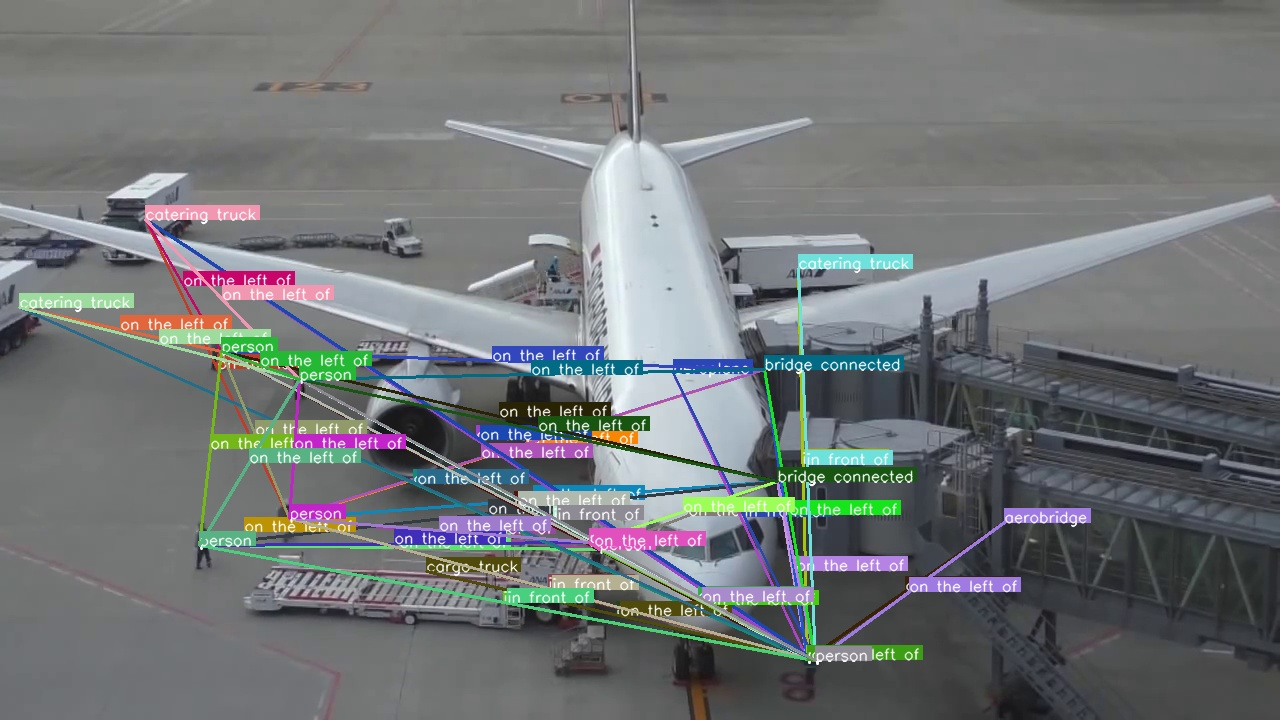
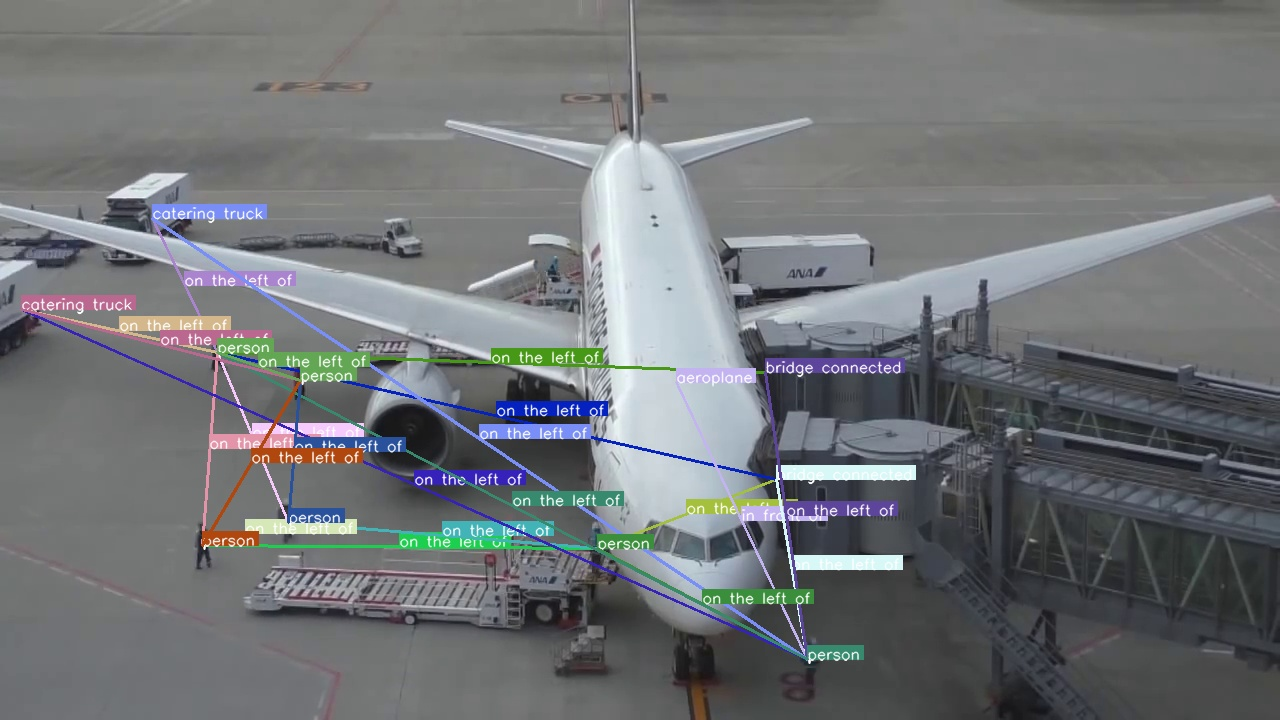
updated for ibs

diff --git a/datasets/custom_vrd.py b/datasets/custom_vrd.py
@@ -91,6 +91,8 @@ class VRDDataset(Dataset):
 			gt_sbj_bbox, gt_obj_bbox = ast.literal_eval(spo[1]), ast.literal_eval(spo[4])
 			predicate = spo[2]
 
+			print(gt_sbj_label, predicate, gt_obj_label )
+
 			# prepare bboxes for subject and object
 			boxes.append([gt_sbj_bbox, gt_obj_bbox])
 

diff --git a/config.py b/config.py
@@ -21,7 +21,7 @@ __C = AttrDict()
 #   from fast_rcnn_config import cfg
 cfg = __C
 
-__C.DEVICE = 'cuda:1'
+__C.DEVICE = 'cpu'
 
 #
 # Training options
@@ -175,7 +175,7 @@ __C.RPN.POSITIVE_FRACTION = 0.5
 #
 
 __C.TEST = AttrDict()
-__C.TEST.THRESHOLD = 0.1
+__C.TEST.THRESHOLD = 0.5
 
 
 #
